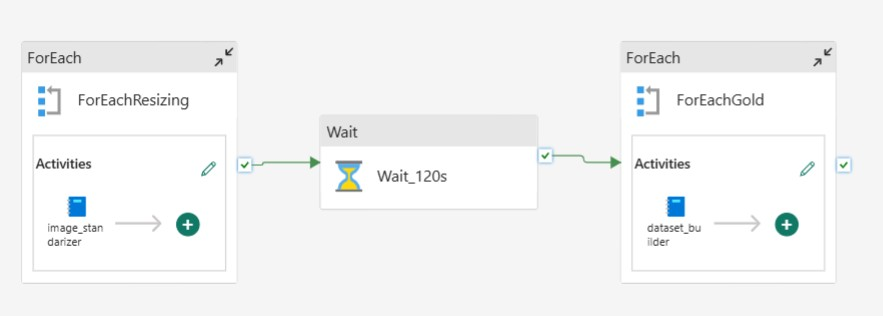
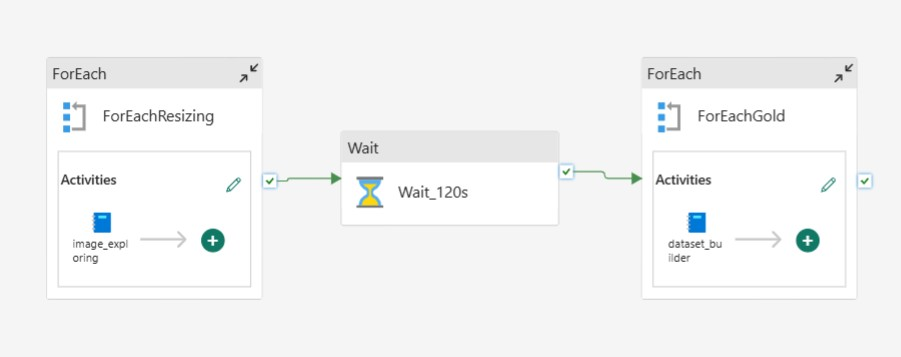
docs: update data engineering documentation and improve training section; remove deprecated preprocessing notebook

diff --git a/docs/training_cv.md b/docs/training_cv.md
@@ -1,64 +1,190 @@
-## ⚠ Work in Progress
+# Training Pipeline — Pet Image Classification
+> **Platform:** Microsoft Fabric | **Storage:** Microsoft Fabric (OneLake) | **Orchestration:** Fabric Data Pipeline | **Model Service:** Azure Custom Vision
 
-The model training pipeline using Azure Custom Vision is currently under development.
-
-This section will include automated training, experiment tracking, and model evaluation across different image sizes.
-
-Updates coming soon.
-
+> ⚠ **Work in Progress** — The core training pipeline for resized images is functional. The original-size model (`real_size_cv`) and dashboard integration are currently under active development.
 
 ---
-
-# Training Pipeline
-> **Platform:** Microsoft Fabric | **Storage:** Microsoft Fabric (OneLake) | **Orchestration:** Fabric Data Pipeline
 
 ## Table of Contents
 
 1. [Overview](#overview)
 2. [Architecture](#architecture)
-3. [Training Pipeline](#training-pipeline)
-4. [Security](#security)
-5. [How to Run](#how-to-run)
-6. [Output Structure](#output-structure)
-7. [Metrics](#metrics)
-
+3. [Prerequisites](#prerequisites)
+4. [Pipeline Parameters](#pipeline-parameters)
+5. [Training Pipelines](#training-pipelines)
+   - [training_custom_vision](#training_custom_vision)
+   - [real_size_cv](#real_size_cv-under-development)
+6. [Security](#security)
+7. [How to Run](#how-to-run)
+8. [Output Structure](#output-structure)
+9. [Metrics](#metrics)
+10. [Upcoming Development](#upcoming-development)
 
 ---
 
 ## Overview
 
-This section trains classification models using **Azure Custom Vision** — all orchestrated through **Fabric Data Pipelines**.
+This section trains **Azure Custom Vision** classification models and evaluates each one against a held-out test set. The pipeline is designed to answer a key research question:
+
+> **Does image resolution affect model performance? Is it worth training on original-size images compared to standardized resolutions?**
+
+To answer this, two training flows are implemented:
+
+| Flow | Input | Models produced | Status |
+|---|---|---|---|
+| `training_custom_vision` | Gold layer (resized images) | One model per size: 128, 224, 256, 384, 512 | ✅ Functional |
+| `real_size_cv` | Bronze layer (raw original images) | One model at original resolution | 🔜 Under development |
+
+All results converge into a single `model_metrics` Delta table, enabling a **unified comparison** across all models from the Data Analyst dashboard.
 
 ---
 
-**Pipeline name:** `training_custom_vision`
+## Architecture
 
-**Purpose:** Trains one Azure Custom Vision classification model per image size and evaluates its performance against the test set.
 
-**Notebook logic per iteration:**
-1. Resolves absolute `abfss://` paths dynamically from the attached Lakehouse
-2. Retrieves credentials from Azure Key Vault via `notebookutils.credentials.getSecret()`
-3. Creates or reuses a Custom Vision project named `pet-classifier-{IMAGE_SIZE}`
-4. Creates classification tags dynamically from Gold layer label folders
-5. Uploads training images in batches of 64
-6. Trains the model with a 30-minute timeout and polling every 10 seconds
-7. Unpublishes any existing iteration with the same name, then publishes the new one
-8. Evaluates accuracy against the test set using the Custom Vision Prediction API
-9. Saves precision, recall, AP and accuracy to the `model_metrics` Delta table
+The following diagram shows the processing flow:
 
-**Parameters received from pipeline:**
+![Pipeline_ds](images/ds_arquitecture.jpg)
 
-| Parameter | Description |
+
+
+Azure Key Vault
+(Credentials)
+      │
+      │  getSecret()
+      ▼
+┌──────────────────────────────────────────────────────────────────┐
+│                    Microsoft Fabric Workspace                     │
+│                                                                  │
+│  ┌──────────────────────────────────────────────────────────┐    │
+│  │   pl_ml_training Pipeline (Fabric Data Pipeline)        │    │
+│  │                                                          │    │
+│  │   ┌─────────────────────────────────────────────────┐   │    │
+│  │   │  Flow 1 — Resized Models                        │   │    │
+│  │   │                                                 │   │    │
+│  │   │  Gold Images ──▶ training_custom_vision.ipynb   │   │    │
+│  │   │  Parameters: size_array                         │   │    │
+│  │   │  ["128","224","256","384","512"]                 │   │    │
+│  │   │                    │                            │   │    │
+│  │   │                    ▼                            │   │    │
+│  │   │           pet-classifier-128                    │   │    │
+│  │   │           pet-classifier-224       ─────────────┼───┼──▶ │
+│  │   │           pet-classifier-256                    │   │    │
+│  │   │           pet-classifier-384                    │   │    │
+│  │   │           pet-classifier-512                    │   │    │
+│  │   └─────────────────────────────────────────────────┘   │    │
+│  │                                                          │    │
+│  │   ┌─────────────────────────────────────────────────┐   │    │
+│  │   │  Flow 2 — Original Size Model (Under Dev.)      │   │    │
+│  │   │                                                 │   │    │
+│  │   │  Shortcut Raw Images ──▶ real_size_cv.ipynb     │   │    │
+│  │   │                    │                            │   │    │
+│  │   │                    ▼                            │   │    │
+│  │   │           pet-classifier-original  ─────────────┼───┼──▶ │
+│  │   └─────────────────────────────────────────────────┘   │    │
+│  └──────────────────────────────────────────────────────────┘    │
+│                                            ▼                    │
+│                              ┌─────────────────────────┐        │
+│                              │  model_metrics           │        │
+│                              │  (Delta Table)           │        │
+│                              └─────────────────────────┘        │
+└──────────────────────────────────────────────────────────────────┘
+          │
+          │  API calls (train, publish, predict)
+          ▼
+   Azure Custom Vision
+   ┌───────────────────────────┐
+   │  pet-classifier-128       │
+   │  pet-classifier-224       │
+   │  pet-classifier-256       │
+   │  pet-classifier-384       │
+   │  pet-classifier-512       │
+   │  pet-classifier-original  │ ← Under development
+   └───────────────────────────┘
+```
+
+---
+
+## Prerequisites
+
+| Requirement | Details |
 |---|---|
-| `IMAGE_SIZE` | Current image size injected by `@item()` |
+| Microsoft Fabric Workspace | With at least one attached Lakehouse (`lkh_pets`) |
+| Gold layer populated | Run the ETL Images pipeline first to generate `Files/gold/dataset_{size}/` |
+| Bronze layer available | OneLake Shortcut from Azure Blob Storage (required for `real_size_cv`) |
+| Azure Key Vault | Storing all Custom Vision API credentials |
+| Azure Custom Vision | Training and Prediction resources (**S0 Standard tier required** — Free tier limited to 2 projects) |
+| Fabric Capacity | F2 or higher recommended to avoid `TooManyRequestsForCapacity` errors |
+| Python Libraries | `azure-cognitiveservices-vision-customvision`, `msrest` (installed via `subprocess` at runtime) |
 
-> ⚠ **Important:** The base parameter name in the Notebook activity settings must be **`IMAGE_SIZE`** (uppercase) to match the notebook parameter cell variable name exactly.
+---
+
+## Pipeline Parameters
+
+| Parameter | Type | Default Value | Description |
+|---|---|---|---|
+| `size_array` | Array | `["128","224","256","384","512"]` | Image sizes to train models for (used by `training_custom_vision` flow only) |
+
+> ⚠ **Important:** The parameter type must be set to **Array** in the Fabric pipeline canvas. Setting it as **String** will prevent the ForEach activity from iterating correctly.
+
+> 💡 **Tip:** To retrain only specific sizes, temporarily set `size_array` to a subset, e.g. `["224","256"]`, and restore the full array afterward.
+
+---
+
+## Training Pipelines
+
+### training_custom_vision
+
+**Status:** ✅ Functional
+
+**Input:** Gold layer — `Files/gold/dataset_{IMAGE_SIZE}/train` and `.../test`
+
+**Purpose:** Trains one Custom Vision classification model per image resolution and evaluates it against the corresponding test set.
+
+#### Notebook logic per iteration
+
+| Step | Description |
+|---|---|
+| 1 | Resolves absolute `abfss://` paths dynamically from the attached Lakehouse |
+| 2 | Retrieves all credentials from Azure Key Vault via `notebookutils.credentials.getSecret()` |
+| 3 | Creates or **reuses** an existing Custom Vision project named `pet-classifier-{IMAGE_SIZE}` |
+| 4 | Creates classification tags dynamically from Gold layer label subfolders |
+| 5 | Uploads training images to Custom Vision in **batches of 64** |
+| 6 | Validates minimum image count per tag before training (minimum 5 per tag required by Custom Vision) |
+| 7 | Trains the model with a **30-minute timeout**, polling status every 10 seconds |
+| 8 | Unpublishes any existing published iteration with the same name, then publishes the new one |
+| 9 | Evaluates the model against the test set using the Custom Vision **Prediction API** |
+| 10 | Saves precision, recall, AP and accuracy to the `model_metrics` Delta table |
+
+#### Parameters received from pipeline
+
+| Parameter | Type | Description |
+|---|---|---|
+| `IMAGE_SIZE` | String | Current image size injected by `@item()` from the ForEach activity |
+
+> ⚠ The base parameter name in the Notebook activity settings must be **`IMAGE_SIZE`** (uppercase) to match the notebook parameter cell variable name exactly.
+
+---
+
+### real_size_cv *(Under Development)*
+
+**Status:** 🔜 Under development
+
+**Input:** Bronze layer — Shortcut Raw Images (original resolution, unmodified)
+
+**Purpose:** Trains a Custom Vision model using images at their **original resolution** without any standardization. This serves as a **baseline comparison** against the resized models — the key question being:
+
+> *Does standardizing image resolution improve or hurt model performance compared to training on raw, variable-size images?*
+
+**Expected output:** One additional record in `model_metrics` with `image_size = "original"`, enabling direct comparison with all resized models in the same table and dashboard.
+
+> ⚠ Note: Custom Vision handles variable image sizes internally, but training time and resource usage may differ from standardized inputs. This will be evaluated as part of the development.
 
 ---
 
 ## Security
 
-All credentials are stored in **Azure Key Vault** and retrieved at runtime using `notebookutils.credentials.getSecret()`. No credentials are hardcoded in any notebook.
+All credentials are stored in **Azure Key Vault** and retrieved at runtime. No credentials are hardcoded in any notebook.
 
 | Secret Name | Description |
 |---|---|
@@ -66,7 +192,7 @@ All credentials are stored in **Azure Key Vault** and retrieved at runtime using
 | `cv-endpoint-t-key` | Custom Vision Training resource endpoint URL |
 | `cv-prediction-api-key` | Custom Vision Prediction resource API key |
 | `cv-endpoint-p-key` | Custom Vision Prediction resource endpoint URL |
-| `cv-prediction-resource-id` | Full Azure Resource ID of the Prediction resource |
+| `cv-prediction-resource-id` | Full Azure Resource ID of the Prediction resource (required for publishing iterations) |
 
 > The Fabric notebook identity must have **Key Vault Secrets User** role assigned on the Key Vault to retrieve secrets at runtime.
 
@@ -74,23 +200,21 @@ All credentials are stored in **Azure Key Vault** and retrieved at runtime using
 
 ## How to Run
 
-### ETL Images Pipeline
+### Prerequisites check
+1. Confirm the **ETL Images** pipeline has completed successfully and Gold layer folders exist
+2. Confirm all 5 Key Vault secrets are created and accessible
+3. Confirm Azure Custom Vision resources are on **S0 Standard tier**
 
-1. Open the **ETL Images** pipeline in your Fabric Workspace
+### Run the training pipeline
+1. Open the **`pl_ml_training`** pipeline in your Fabric Workspace
 2. Confirm `size_array` parameter is set to **Array** type
-3. Confirm **ForEachResizing** and **ForEachGold** both have **Sequential** mode enabled
+3. Confirm **ForEach1** has **Sequential** mode enabled
 4. Click **Run**
 
-> A **Wait activity** (120 seconds) is placed between `ForEachResizing` and `ForEachGold` to allow Spark sessions from the first ForEach to fully release before the second starts.
-
-### Training Pipeline
-
-1. Delete or clean any existing Custom Vision projects if retraining from scratch
-2. Open the **training_custom_vision** pipeline
-3. Confirm `size_array` parameter is **Array** type and **ForEach1** is **Sequential**
-4. Click **Run**
-
-> To retrain only specific sizes, temporarily set `size_array` to a subset, e.g. `["224","256"]`.
+### Re-running the pipeline
+- The notebook automatically **reuses existing projects** — no need to delete Custom Vision projects between runs
+- The notebook automatically **unpublishes previous iterations** before publishing new ones — no manual cleanup needed
+- The `model_metrics` table automatically **replaces the record** for each `image_size` on every run
 
 ---
 
@@ -99,38 +223,49 @@ All credentials are stored in **Azure Key Vault** and retrieved at runtime using
 ```
 OneLake (lkh_pets Lakehouse)
 │
-├── Files/
-│   ├── images/
-│   │   ├── raw/              ← Bronze (Shortcut from Azure Blob)
-│   │   └── resized/          ← Silver (output of image_standarizer)
-│   └── gold/                 ← Gold (output of dataset_builder)
-│       ├── dataset_128/
-│       ├── dataset_224/
-│       ├── dataset_256/
-│       ├── dataset_384/
-│       └── dataset_512/
-│
 └── Tables/
-    └── model_metrics         ← Delta table (output of training pipeline)
+    └── model_metrics    ← Delta table with one record per model
+
+Azure Custom Vision Portal (customvision.ai)
+    ├── pet-classifier-128
+    ├── pet-classifier-224
+    ├── pet-classifier-256
+    ├── pet-classifier-384
+    ├── pet-classifier-512
+    └── pet-classifier-original   ← Under development
 ```
 
 ---
 
 ## Metrics
 
-Training results are stored in the `model_metrics` Delta table in the attached Lakehouse.
+Training results are stored in the `model_metrics` Delta table.
 
 | Column | Type | Description |
 |---|---|---|
-| `image_size` | String | Image resolution used for training (`"128"`, `"224"`, etc.) |
+| `image_size` | String | Resolution used: `"128"`, `"224"`, `"256"`, `"384"`, `"512"`, or `"original"` |
 | `precision` | Float | Model precision on the test set |
 | `recall` | Float | Model recall on the test set |
 | `ap` | Float | Average precision across all tags |
 | `accuracy` | Float | Overall classification accuracy on the test set |
 | `timestamp` | Timestamp | Date and time the training run completed |
 
-Each pipeline run **replaces** the existing record for a given `image_size`, ensuring the table always reflects the most recent training result per resolution.
+Each pipeline run **replaces** the existing record for a given `image_size`, ensuring the table always reflects the most recent result per model.
 
 ---
 
-*Built with ❤ on Microsoft Fabric — OneLake, Spark, and Data Pipelines.*
+## Upcoming Development
+
+| Feature | Description | Status |
+|---|---|---|
+| **Original size model** | Train and evaluate `real_size_cv` on raw unresized images as a baseline | 🔜 In progress |
+| **Dashboard integration** | Power BI dashboard consuming `model_metrics` for visual comparison across all models | 🔜 Planned |
+| **Inference notebook** | Dedicated notebook for the Data Analyst role to test new images against any published model | 🔜 Planned |
+| **Full dataset training** | Expand to ~75 images per label per pet category | 🔜 Planned |
+| **Resource usage tracking** | Log training duration and estimated cost per model run | 🔜 Future consideration |
+
+> **Note on MLflow:** Azure Custom Vision manages its own iteration history internally and does not integrate with MLflow. MLflow tracking would apply if the project migrates to a custom model trained directly in Fabric using PyTorch or TensorFlow. This is under evaluation for a future iteration of the project.
+
+---
+
+*Built with ❤ on Microsoft Fabric — OneLake, Spark, Data Pipelines, and Azure Custom Vision.*

diff --git a/docs/de_ingestion.md b/docs/de_ingestion.md
@@ -11,7 +11,7 @@
 4. [Pipeline Parameters](#pipeline-parameters)
 5. [Medallion Layers](#medallion-layers)
 6. [Notebooks](#notebooks)
-   - [image_standarizer](#image_standarizer)
+   - [image_exploring](#image_exploring)
    - [dataset_builder](#dataset_builder)
 ---
 
@@ -45,7 +45,7 @@ Azure Blob Storage
 │   │   ["128","224","256","384","512"]                │   │
 │   │                                                 │   │
 │   │   ┌─────────────────────────────────────────┐   │   │
-│   │   │  ForEachResizing  →  image_standarizer  │   │   │
+│   │   │  ForEachResizing  →  image_exploring    │   │   │
 │   │   └─────────────────────────────────────────┘   │   │
 │   │            │                                    │   │
 │   │            ▼                                    │   │
@@ -93,7 +93,7 @@ Azure Blob Storage
 
 ## Pipeline Parameters
 
-'[Fabric_pipeline](images/fabric_ppl.jpg)
+'[Fabric_pipeline](images/fabric_ppl.jpg)'
 
 This pipeline has the parameter definition:
 
@@ -158,7 +158,7 @@ Files/gold/
 
 ## Notebooks
 
-### image_standarizer
+### image_exploring
 
 **Purpose:** Reads raw images from the Bronze layer and produces resized copies in the Silver layer.
 
